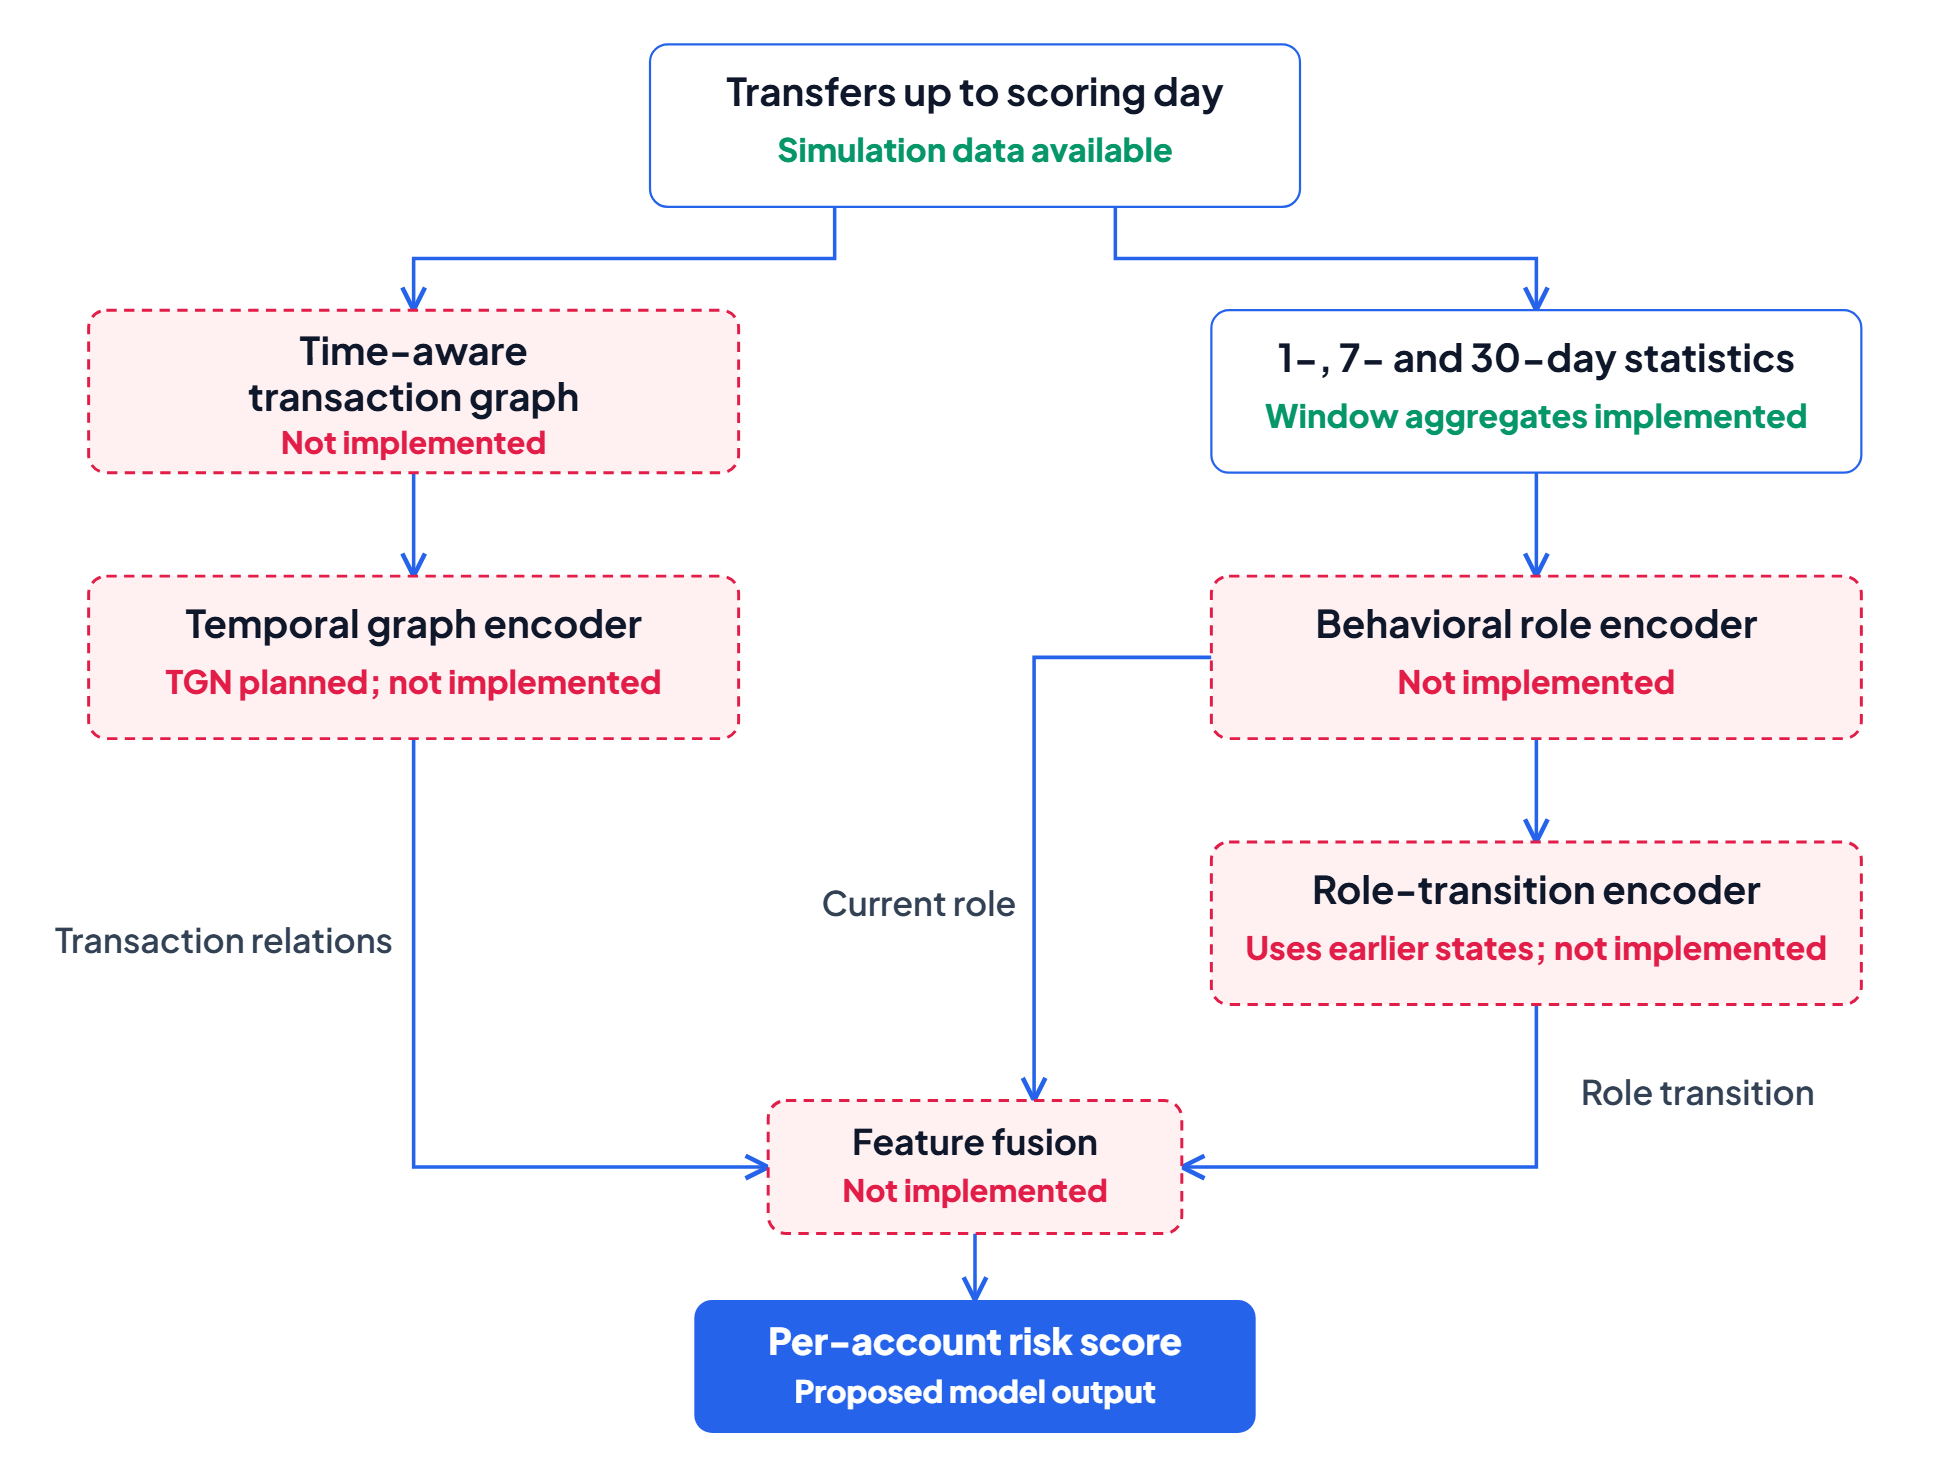
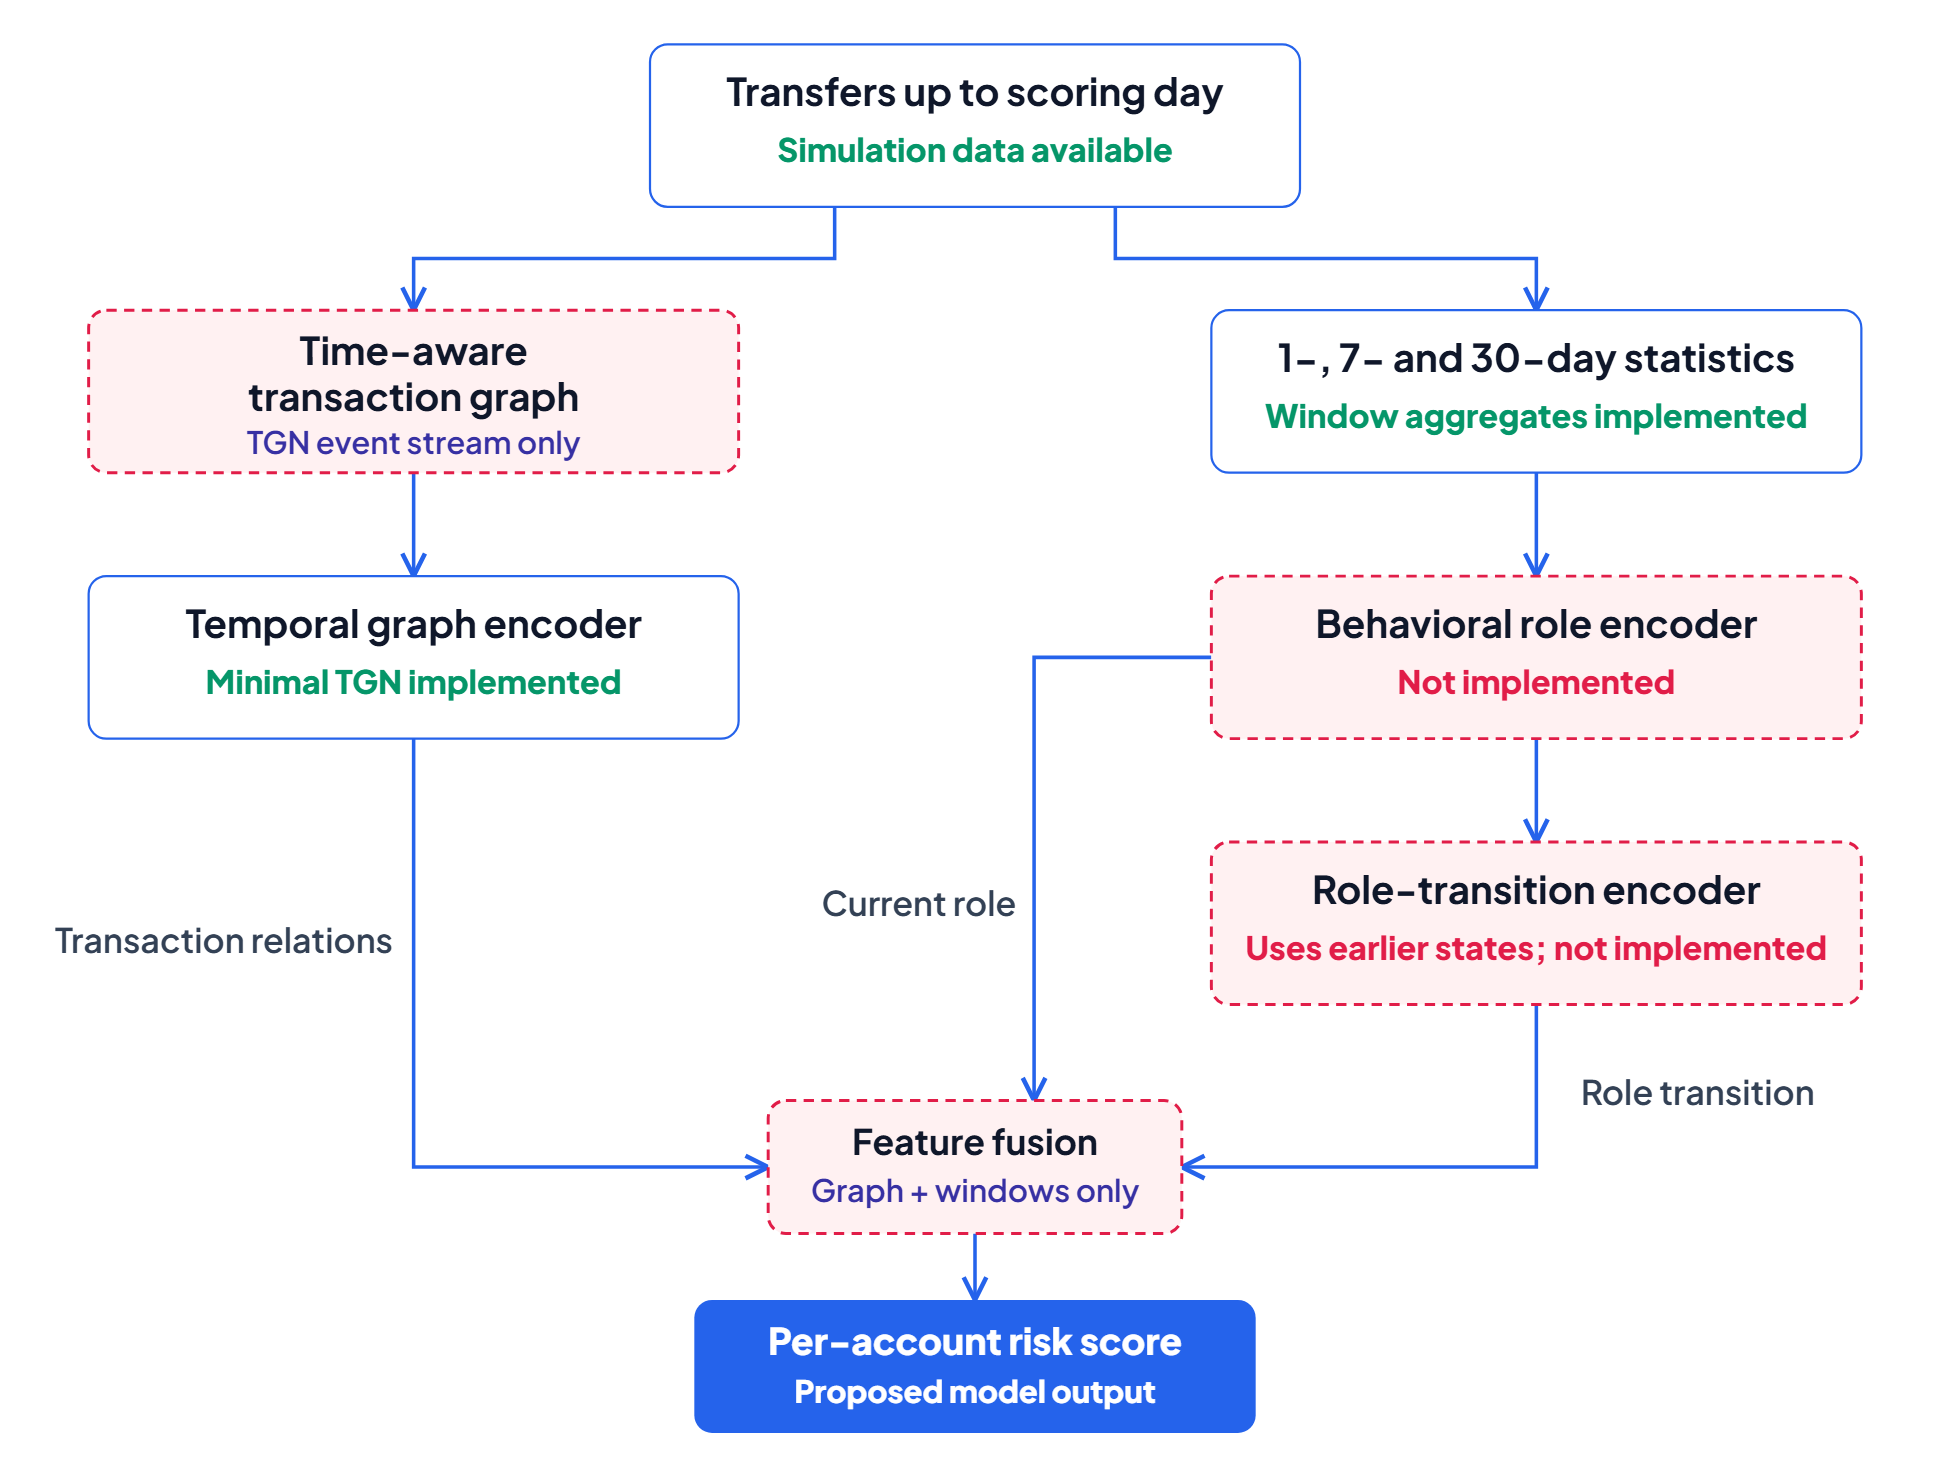
EMTG-26: TGN with features placed as the plan's multi-scale ablation step; overview and architecture figure show the TGN status

Changed region(s): [[0.4308, 0.7786, 0.5846, 0.8409], [0.0923, 0.436, 0.3385, 0.4983], [0.1231, 0.2803, 0.3077, 0.3114]]

diff --git a/docs/problem_and_architecture_overview.md b/docs/problem_and_architecture_overview.md
@@ -132,12 +132,14 @@ The current executable pipeline:
 
 **Current LightGBM does not use learned graph embeddings.** Counterparty counts carry network information, but they are not a graph model that learns relationships or temporal memory.
 
+A minimal TGN (`src/earlymule/models/tgn.py`) reads the same transfers as an event stream, keeps a memory per account and is trained on Kaggle; its scores go through the same evaluation as LightGBM. With the 1-, 7- and 30-day statistics added to its account head it alerts more mules before their first forwarding than LightGBM; the TGN alone and the statistics alone without the graph do not (`docs/evaluation_protocol.md` section 7).
+
 The alert list is currently an experimental output. The repository does not yet implement a live banking integration, an investigation interface or an operational response workflow.
 
 ## 7. What architecture does EarlyMule-TG propose?
 
 ![Proposed architecture: transfers observed by the scoring day feed a temporal graph branch and a multi-window behavior branch. Graph relationships, current roles and role transitions are fused into an account risk score.](assets/proposed_architecture.png)
-<!-- alt: Window statistics are implemented. The temporal graph, learned role and role-transition modules, and their fusion are proposed components that are not implemented yet. | source: assets/proposed_architecture.svg -->
+<!-- alt: Window statistics and a minimal TGN over the transfer stream are implemented, and the TGN account head already reads the window statistics. The learned role and role-transition modules and the full fusion are proposed components that are not implemented yet. | source: assets/proposed_architecture.svg -->
 
 *Figure 2. The proposed research architecture and current implementation status. [Editable SVG](assets/proposed_architecture.svg).*
 
@@ -145,12 +147,12 @@ Both branches use transfers observed by the scoring day:
 
 | Component | Intended representation | Status |
 |---|---|---|
-| Time-aware transaction graph | Who transacts with whom, amounts and the evolution of these relationships | Graph construction for a learned graph model is not implemented |
-| Temporal graph encoder, planned with TGN | Account representations updated from observed transaction events | Not implemented |
+| Time-aware transaction graph | Who transacts with whom, amounts and the evolution of these relationships | Transfer event stream with each account's 10 most recent partners, used by the TGN; daily snapshot graphs for static graph models not implemented |
+| Temporal graph encoder (TGN) | Account representations updated from observed transaction events | Minimal TGN implemented: memory per account, attention over recent partners, link and account losses |
 | 1-, 7- and 30-day statistics | Counts, amounts, counterparties, new counterparties and changes across windows | Many aggregates implemented; the plan's complete feature list is not |
 | Behavioral role encoder | A learned representation of receiving, collecting, relaying or distributing | Not implemented |
 | Role-transition encoder | Differences from earlier states or between time scales | Not implemented |
-| Fusion and risk scoring | Combine graph relationships, current role and role change | Not implemented |
+| Fusion and risk scoring | Combine graph relationships, current role and role change | Graph embedding and window statistics concatenated in one account head; role inputs not implemented |
 
 The role encoders consume observable behavior. Simulator labels, case types and simulator-known roles must not become prediction features.
 

diff --git a/docs/evaluation_protocol.md b/docs/evaluation_protocol.md
@@ -113,6 +113,8 @@ Alongside: K = 5, 20 and 50 catch 0.678, 0.821 and 0.842 before forwarding. Over
 | 3 | Scored population: regular accounts, at least 20 transfers up to day t; all accounts reported alongside | Over all accounts activity alone separates mules (section 4) | Applied |
 | 4 | Alert budget: K = 10 new accounts per day with a 30-day cooldown; 5, 20, 50 and the plan's threshold rule also reported | A bank reviews a fixed number of cases per day; 30 days is the longest feature window | Applied |
 | 5 | Folds: one fixed time split with three seeds | Allowed by the plan (section 21.4); keeps the full test period | Applied |
+| 6 | The TGN with the LightGBM features is the plan's ablation row "TGN + multi-scale behaviour", a step towards EarlyMule-TG, not an outside baseline. The role and role-transition steps must each beat the step before them, so the bar for EarlyMule-TG is this model, not LightGBM or the plain TGN | The plan's ablation table adds multi-scale behaviour to the TGN before the role modules; each added module has to show its own gain | Applied 2026-11-12 |
+| 7 | Early stopping stays on validation PR-AUC for every model, although test detection before forwarding does not always follow it (control learning-rate sweep, section 7) | Changing the stopping metric means rerunning every model; to be decided once the outside baselines are in | Open |
 
 ## 9. Commands on saved run outputs
 
